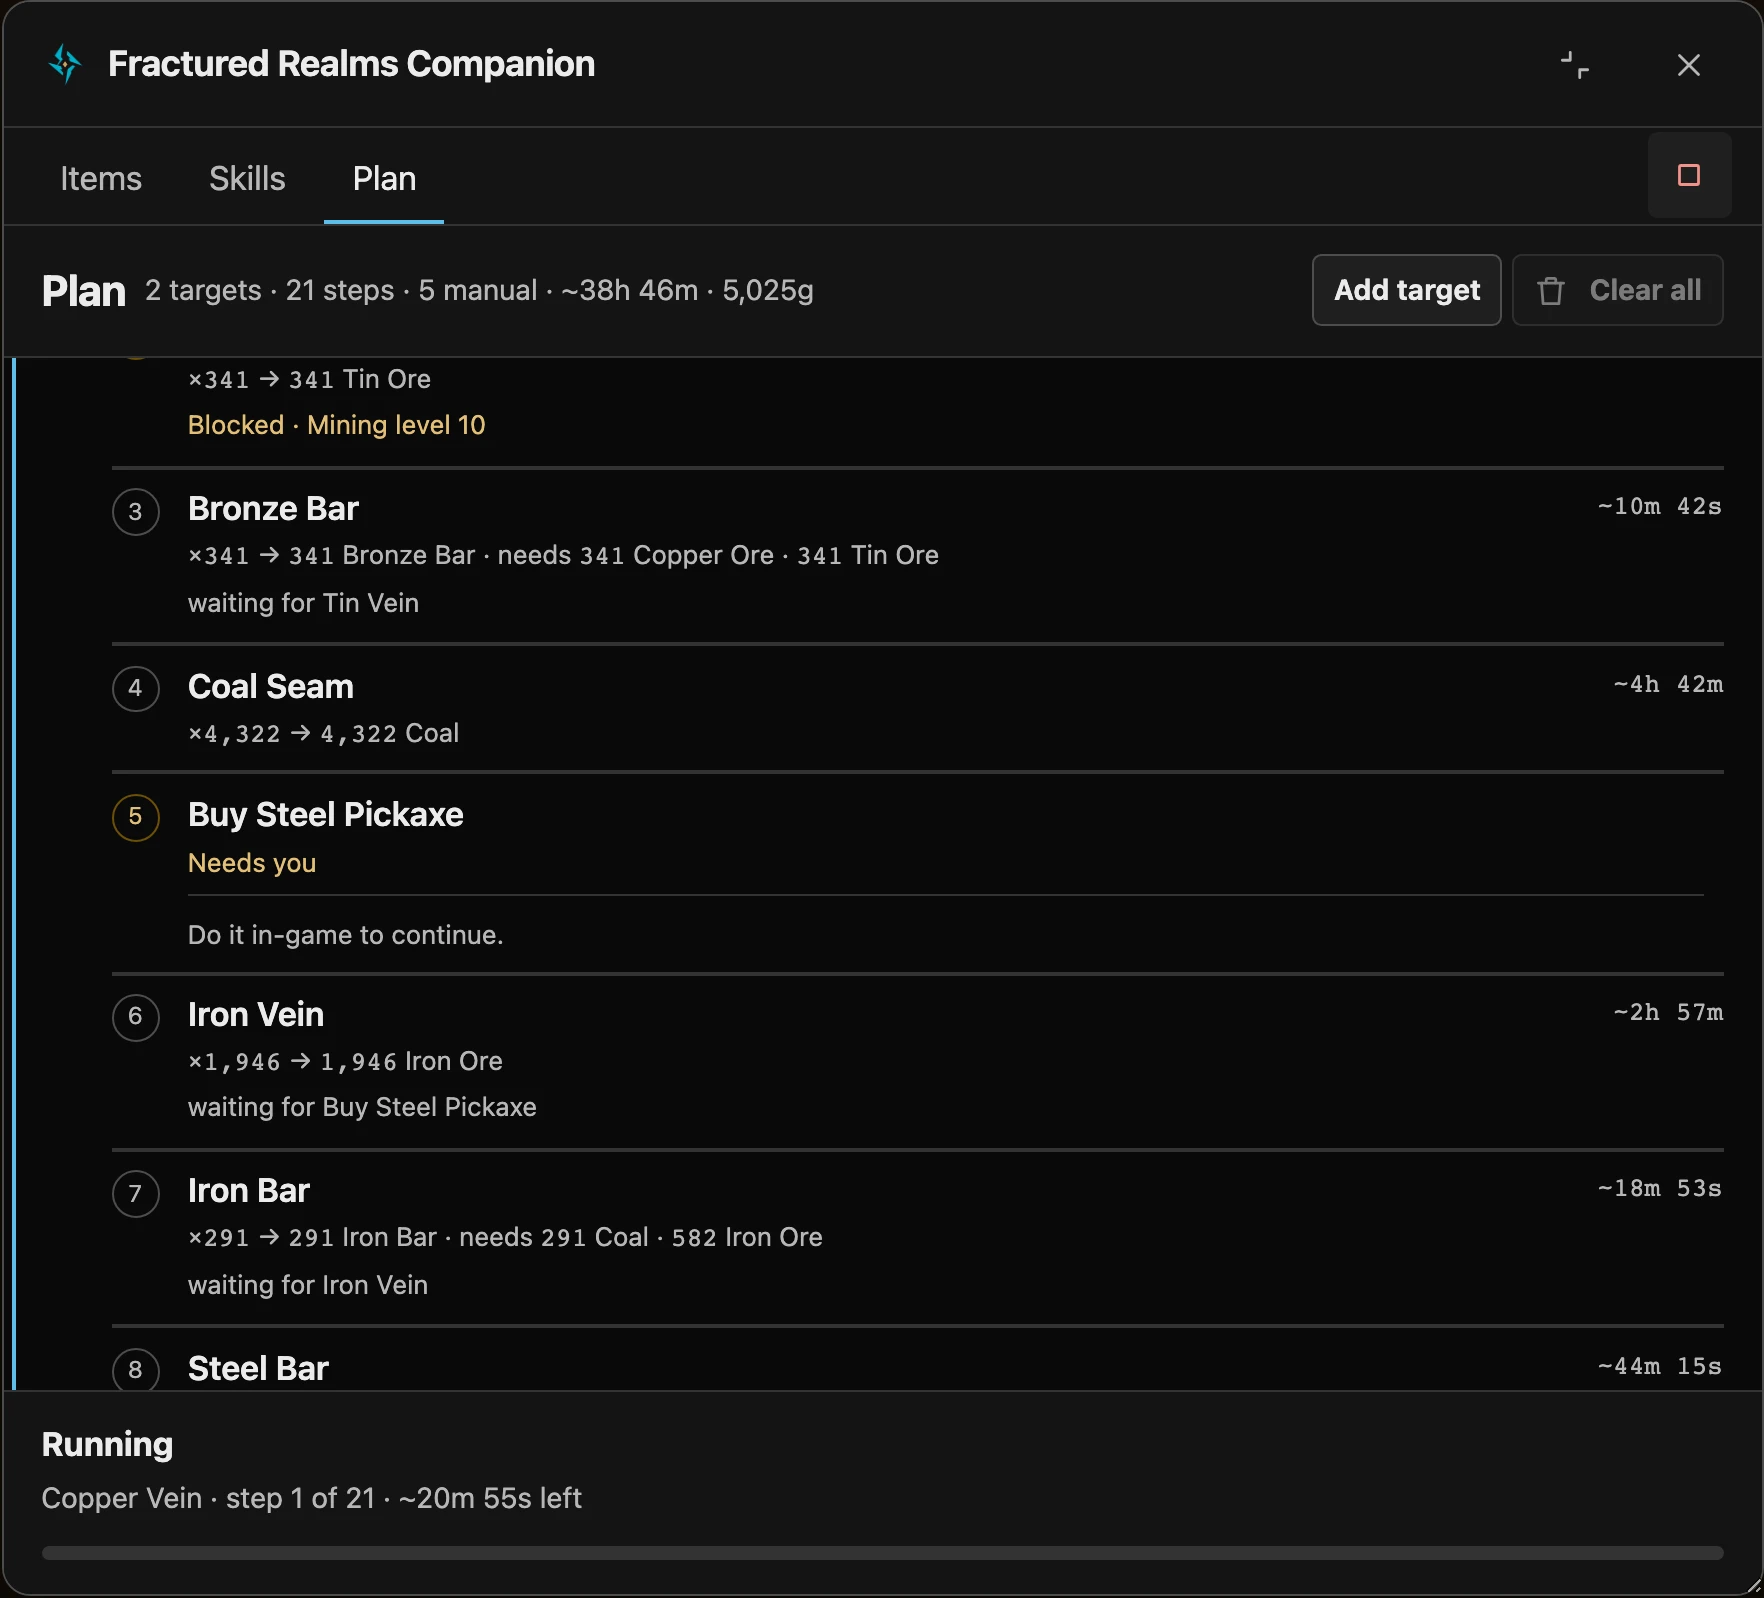
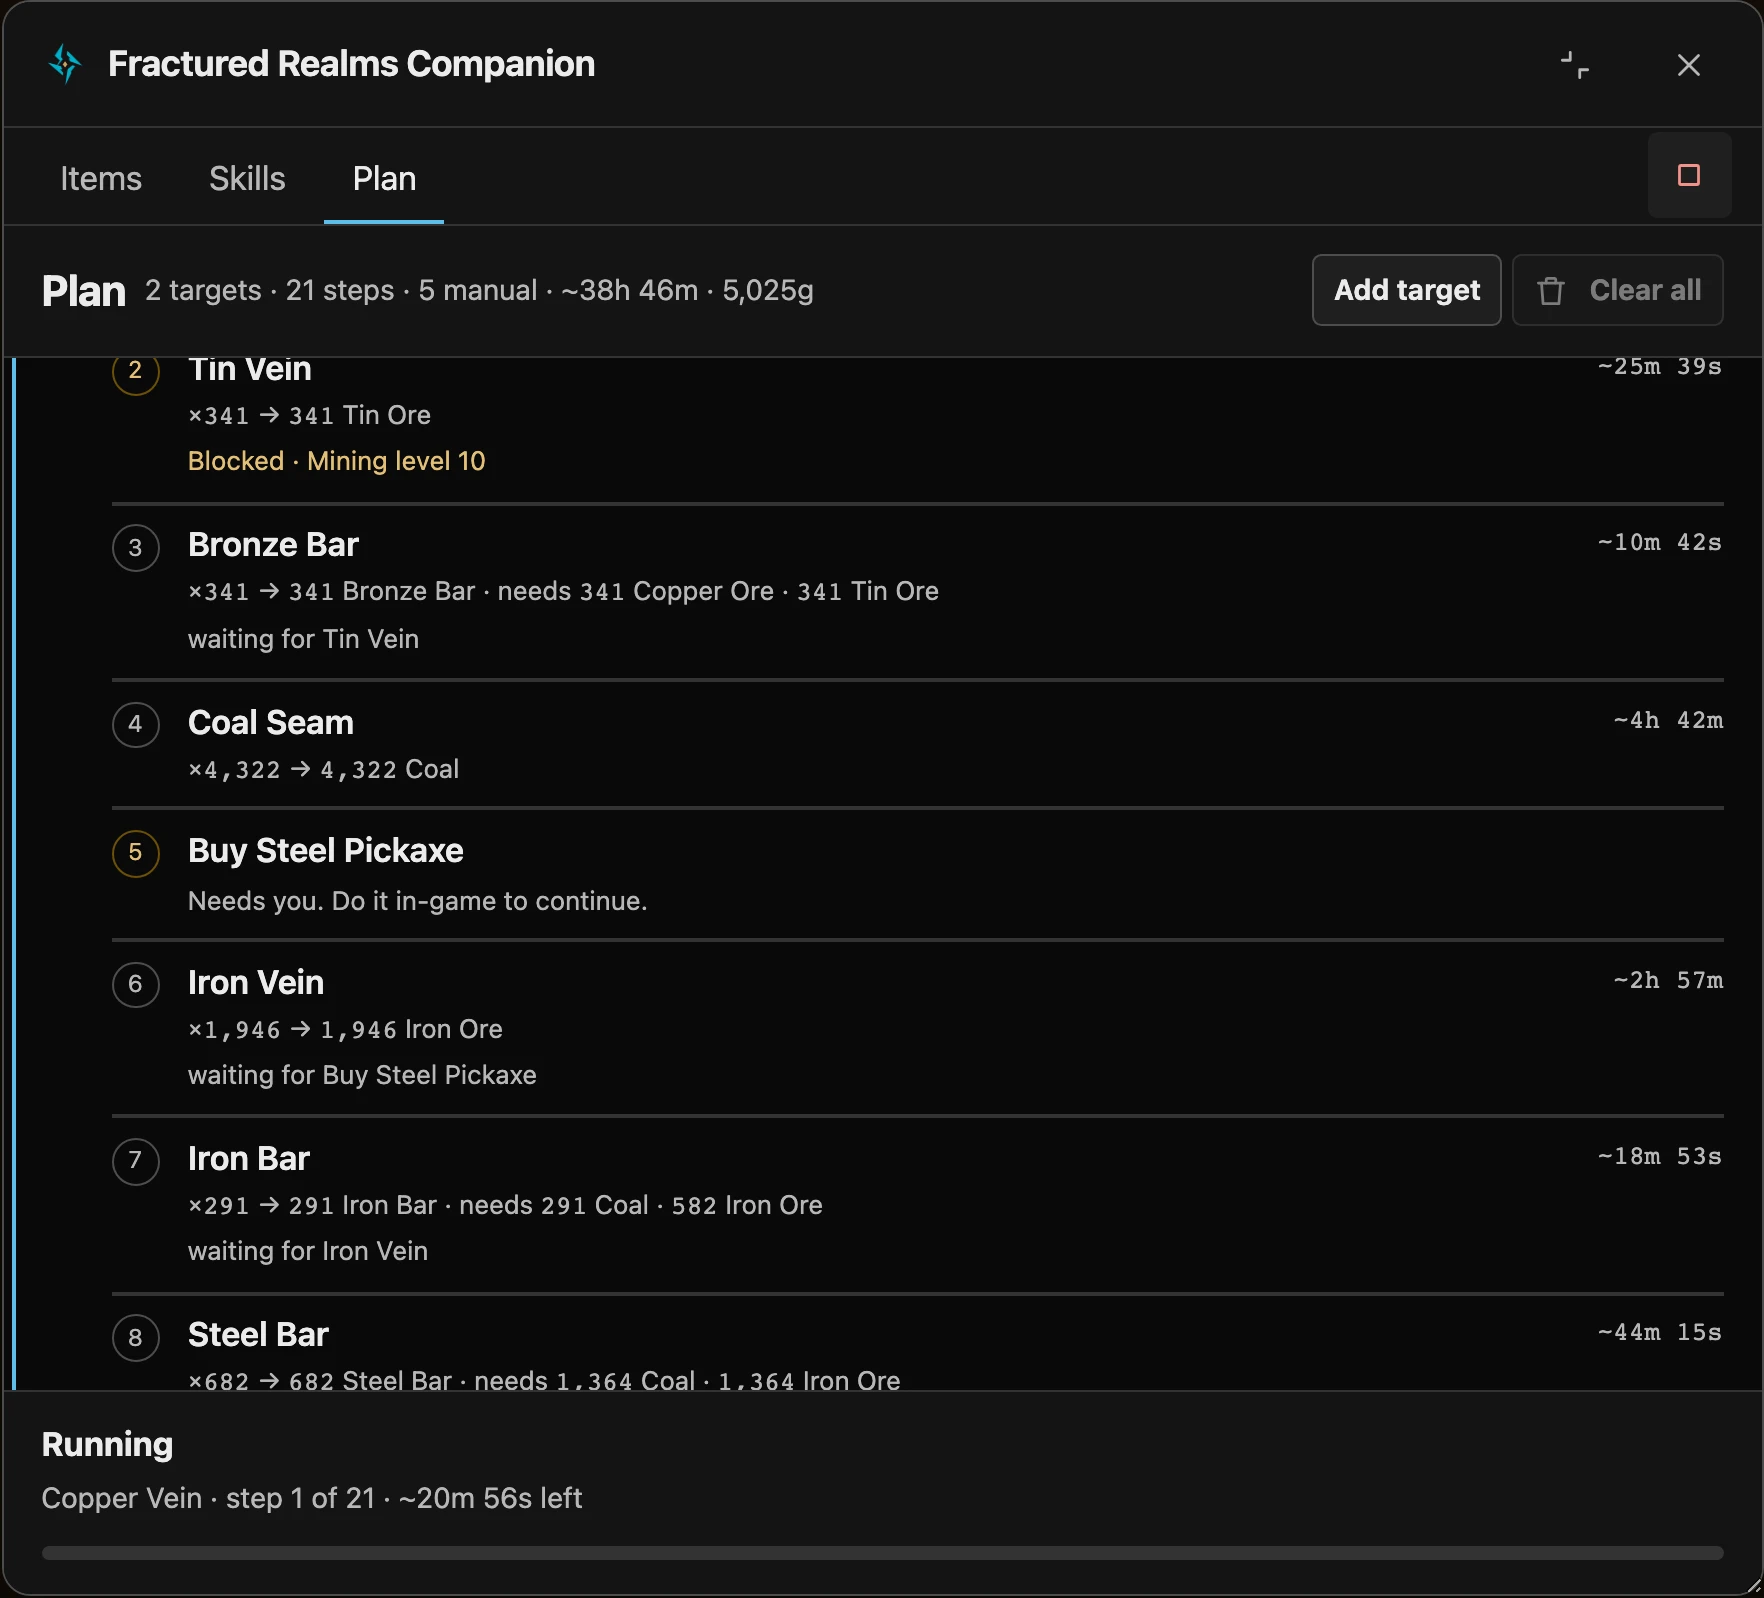
fix(overlay): refine plan tab manual steps and composer
Review of the restored plan layout surfaced several presentation
defects. Manual steps split their status and instruction across two
lines separated by a rule, which read as clutter; they now state
everything on one line. The collapsible "Manual stops" list added
interaction for no benefit and is now a plain list. Targets carried a
divider after their last step even though the next card's heading
already separates them, and completed or blocked targets repeated their
state badge as trailing meta text; both are removed so only meaningful
dividers and counts remain.

The composer also misaligned its controls: the target-type field
reserved space for its help text under the select, so bottom-aligning
the row lifted that select above the other inputs and buttons. The help
text now sits on its own line beneath the row, letting every field and
button share one control baseline.

diff --git a/overlay/overlay.js b/overlay/overlay.js
@@ -402,12 +402,12 @@ tbody tr:last-child td { border-bottom: 0; }
 .plan-form .field { flex: 1 1 9rem; }
 .plan-form .button { flex: 0 0 auto; }
 .plan-form-actions { display: flex; gap: var(--fr-s1); }
-.field-help { margin: 0; color: var(--fr-text-secondary); font-size: 0.6875rem; line-height: 1.35; }
+.field-help { flex-basis: 100%; margin: 0; color: var(--fr-text-secondary); font-size: 0.6875rem; line-height: 1.35; }
 #fr-plan-result { flex: 1 1 auto; min-width: 0; min-height: 0; overflow: auto; padding: var(--fr-space-pane); }
 #fr-plan-result .empty { color: var(--fr-text-secondary); font-size: 0.8125rem; line-height: 1.5; }
 .plan-queue-list { margin: 0; padding: 0; list-style: none; }
 .queue-plan { padding: var(--fr-s3) 0; }
-.queue-plan + .queue-plan { border-top: 1px solid var(--fr-border-subtle); }
+.queue-plan + .queue-plan { margin-top: var(--fr-s2); }
 .queue-plan[data-active="true"] { border-left: 2px solid var(--fr-state-signal); margin-left: calc(-1 * var(--fr-s3)); padding-left: var(--fr-s3); }
 .queue-plan-top { display: flex; align-items: center; gap: var(--fr-s2); min-width: 0; }
 .queue-plan-index { flex: 0 0 auto; color: var(--fr-text-secondary); font-size: 0.75rem; }
@@ -437,8 +437,7 @@ tbody tr:last-child td { border-bottom: 0; }
 .plan-step[data-state="running"] .step-state { color: var(--fr-state-signal); }
 .plan-step[data-state="blocked"] .step-state, .plan-step[data-state^="manual"] .step-state { color: var(--fr-state-warning); }
 .step-timing { flex: 0 0 auto; color: var(--fr-text-secondary); font-size: 0.6875rem; line-height: 1.35; text-align: right; white-space: nowrap; }
-.instruction-card { grid-column: 1 / -1; margin-top: var(--fr-s2); padding: var(--fr-s2) 0 0; border-top: 1px solid var(--fr-border-subtle); background: transparent; color: var(--fr-text-secondary); font-size: 0.6875rem; line-height: 1.4; }
-.instruction-card strong { display: block; color: var(--fr-text-primary); }
+.instruction-card { margin-top: 0.125rem; color: var(--fr-state-warning); font-size: 0.6875rem; line-height: 1.4; overflow-wrap: anywhere; }
 .step-progress { grid-column: 1 / -1; width: 100%; height: 0.5rem; margin-top: var(--fr-s2); overflow: hidden; border: 0; border-radius: 999px; background: var(--fr-neutral-800); accent-color: var(--fr-state-signal); }
 .step-progress-text { grid-column: 1 / -1; margin-top: 0.125rem; color: var(--fr-text-secondary); font-size: 0.6875rem; }
 .step-progress::-webkit-progress-bar, .executor-progress::-webkit-progress-bar { background: var(--fr-neutral-800); }
@@ -450,7 +449,7 @@ tbody tr:last-child td { border-bottom: 0; }
 .plan-overview dd { margin: 0; }
 .plan-overview-presence { margin: var(--fr-s3) 0 0; color: var(--fr-text-secondary); font-size: 0.75rem; line-height: 1.45; }
 .plan-manual-list { margin-top: var(--fr-s4); border-top: 1px solid var(--fr-border-subtle); }
-.plan-manual-list summary { min-height: var(--fr-control); padding: var(--fr-s2) 0; cursor: pointer; }
+.plan-manual-list h3 { margin: 0; padding: var(--fr-s2) 0; font-size: 0.8125rem; }
 .plan-manual-list ul { margin: 0; padding: 0; list-style: none; }
 .manual-list-row { display: flex; justify-content: space-between; gap: var(--fr-s2); padding: var(--fr-s2) 0; border-top: 1px solid var(--fr-border-subtle); color: var(--fr-text-secondary); font-size: 0.75rem; }
 .manual-list-row[data-state="manual-now"] { color: var(--fr-state-warning); }
@@ -1050,7 +1049,6 @@ function createApplication(shell, modelJson, api) {
     executorStatus: { phase: 'idle', message: 'Add a target to begin.', stepStatuses: {}, runningStepId: null },
     queueStartedAt: null,
     nextPlanId: 1,
-    manualListOpen: false,
     composerOpen: false,
     lastAnnouncementKey: '',
   };
@@ -1113,7 +1111,7 @@ function createApplication(shell, modelJson, api) {
   skillTable.addEventListener('click', async (event) => { const button = event.target.closest?.('[data-start-action]'); if (!button || button.disabled || isExecutionLocked(state.executorStatus?.phase)) return; const skillId = button.dataset.skillId; const action = actionFor(skillId, button.dataset.actionId); if (!action) return; const blocker = liveBlocker(model, liveState(), { kind: 'action', skillId, actionId: action.id }); if (blocker) { skillStatus.textContent = `Blocked: ${factLabel(blocker)}`; skillStatus.dataset.state = 'error'; return; } try { await api.stopAction(); await api.startAction(skillId, action.id); skillStatus.textContent = `${actionName(action)} started.`; skillStatus.dataset.state = 'idle'; } catch (error) { skillStatus.textContent = error instanceof Error ? error.message : String(error); skillStatus.dataset.state = 'error'; } });
 
   const planPanel = shell.panels.plan;
-  planPanel.innerHTML = `<div class="plan-view"><div class="plan-toolbar" id="fr-plan-toolbar"><h2>Plan</h2><span id="fr-plan-toolbar-summary" class="plan-toolbar-summary"></span><div class="plan-toolbar-actions"><button class="button compact" id="fr-plan-compose-toggle" type="button" aria-expanded="false" aria-controls="fr-plan-composer">Add target</button><button class="button compact" id="fr-clear" type="button">${ICONS.clear} Clear all</button></div></div><section id="fr-plan-composer" class="plan-composer" aria-label="Add plan target"><form class="plan-form" id="fr-plan-form"><div class="field"><label for="fr-plan-target">Target type</label><select class="control" id="fr-plan-target"><option value="item">Reach item total</option><option value="item-gain">Gain items</option><option value="level">Reach skill level</option><option value="xp">Reach skill XP</option><option value="action">Run an action</option><option value="use-stock">Use current stock</option></select><p class="field-help" id="fr-plan-kind-help"></p></div><div class="field" id="fr-plan-item-field"><label for="fr-plan-item">Desired item</label><div class="plan-combobox"><input class="control" id="fr-plan-item" type="search" role="combobox" aria-autocomplete="list" aria-haspopup="listbox" aria-controls="fr-plan-options" aria-expanded="false" autocomplete="off" placeholder="Search item names"><div class="combobox-popover" id="fr-plan-options" role="listbox" hidden></div></div></div><div class="field" id="fr-plan-skill-field" hidden><label for="fr-plan-skill">Skill</label><select class="control" id="fr-plan-skill"></select></div><div class="field" id="fr-plan-action-field" hidden><label for="fr-plan-action">Action</label><select class="control" id="fr-plan-action"></select></div><div class="field" id="fr-plan-qty-field"><label for="fr-plan-qty" id="fr-plan-qty-label">Total quantity</label><input class="control data" id="fr-plan-qty" type="number" min="1" step="1" value="1" inputmode="numeric"></div><div class="field" id="fr-plan-mode-field" hidden><label for="fr-plan-action-mode">Measure by</label><select class="control" id="fr-plan-action-mode"><option value="runs">Runs</option><option value="minutes">Minutes</option></select></div><div class="plan-form-actions"><button class="button primary" id="fr-resolve-plan" type="submit">Add target</button><button class="button compact" id="fr-plan-compose-cancel" type="button">Cancel</button></div></form><p class="form-error" id="fr-plan-form-error" role="status" hidden></p></section><div id="fr-plan-result" class="plan-queue" aria-label="Plan targets and steps"></div><div class="executor" aria-label="Plan execution"><div class="executor-status"><strong id="fr-executor-phase">Ready to run</strong><p id="fr-executor-message">Add a target to begin.</p><progress class="executor-progress" id="fr-executor-progress" max="1" value="0" aria-label="Plan progress"></progress></div></div><div id="fr-plan-announcer" class="visually-hidden" role="status" aria-live="polite" aria-atomic="true"></div></div>`;
+  planPanel.innerHTML = `<div class="plan-view"><div class="plan-toolbar" id="fr-plan-toolbar"><h2>Plan</h2><span id="fr-plan-toolbar-summary" class="plan-toolbar-summary"></span><div class="plan-toolbar-actions"><button class="button compact" id="fr-plan-compose-toggle" type="button" aria-expanded="false" aria-controls="fr-plan-composer">Add target</button><button class="button compact" id="fr-clear" type="button">${ICONS.clear} Clear all</button></div></div><section id="fr-plan-composer" class="plan-composer" aria-label="Add plan target"><form class="plan-form" id="fr-plan-form"><div class="field"><label for="fr-plan-target">Target type</label><select class="control" id="fr-plan-target"><option value="item">Reach item total</option><option value="item-gain">Gain items</option><option value="level">Reach skill level</option><option value="xp">Reach skill XP</option><option value="action">Run an action</option><option value="use-stock">Use current stock</option></select></div><div class="field" id="fr-plan-item-field"><label for="fr-plan-item">Desired item</label><div class="plan-combobox"><input class="control" id="fr-plan-item" type="search" role="combobox" aria-autocomplete="list" aria-haspopup="listbox" aria-controls="fr-plan-options" aria-expanded="false" autocomplete="off" placeholder="Search item names"><div class="combobox-popover" id="fr-plan-options" role="listbox" hidden></div></div></div><div class="field" id="fr-plan-skill-field" hidden><label for="fr-plan-skill">Skill</label><select class="control" id="fr-plan-skill"></select></div><div class="field" id="fr-plan-action-field" hidden><label for="fr-plan-action">Action</label><select class="control" id="fr-plan-action"></select></div><div class="field" id="fr-plan-qty-field"><label for="fr-plan-qty" id="fr-plan-qty-label">Total quantity</label><input class="control data" id="fr-plan-qty" type="number" min="1" step="1" value="1" inputmode="numeric"></div><div class="field" id="fr-plan-mode-field" hidden><label for="fr-plan-action-mode">Measure by</label><select class="control" id="fr-plan-action-mode"><option value="runs">Runs</option><option value="minutes">Minutes</option></select></div><div class="plan-form-actions"><button class="button primary" id="fr-resolve-plan" type="submit">Add target</button><button class="button compact" id="fr-plan-compose-cancel" type="button">Cancel</button></div><p class="field-help" id="fr-plan-kind-help"></p></form><p class="form-error" id="fr-plan-form-error" role="status" hidden></p></section><div id="fr-plan-result" class="plan-queue" aria-label="Plan targets and steps"></div><div class="executor" aria-label="Plan execution"><div class="executor-status"><strong id="fr-executor-phase">Ready to run</strong><p id="fr-executor-message">Add a target to begin.</p><progress class="executor-progress" id="fr-executor-progress" max="1" value="0" aria-label="Plan progress"></progress></div></div><div id="fr-plan-announcer" class="visually-hidden" role="status" aria-live="polite" aria-atomic="true"></div></div>`;
   const planForm = planPanel.querySelector('#fr-plan-form'); const planFormError = planPanel.querySelector('#fr-plan-form-error'); const planKind = planPanel.querySelector('#fr-plan-target'); const planItem = planPanel.querySelector('#fr-plan-item'); const planOptions = planPanel.querySelector('#fr-plan-options'); const planSkill = planPanel.querySelector('#fr-plan-skill'); const planAction = planPanel.querySelector('#fr-plan-action'); const planQty = planPanel.querySelector('#fr-plan-qty'); const planQtyLabel = planPanel.querySelector('#fr-plan-qty-label'); const planMode = planPanel.querySelector('#fr-plan-action-mode'); const composer = planPanel.querySelector('#fr-plan-composer'); const composeToggle = planPanel.querySelector('#fr-plan-compose-toggle'); const composeCancel = planPanel.querySelector('#fr-plan-compose-cancel'); const kindHelp = planPanel.querySelector('#fr-plan-kind-help'); const clearButton = planPanel.querySelector('#fr-clear'); const announcer = planPanel.querySelector('#fr-plan-announcer');
   const kindCopy = { item: ['Reach item total', 'Reach an inventory total.', 'Total quantity'], 'item-gain': ['Gain items', 'Gain this many from your current inventory.', 'Quantity to gain'], level: ['Reach skill level', 'Reach a total skill level.', 'Target level'], xp: ['Reach skill XP', 'Reach a total skill XP value.', 'Target XP'], action: ['Run an action', 'Run one action for a count or duration.', 'Amount'], 'use-stock': ['Use current stock', 'Craft as much as your current inputs allow.', 'Amount'] };
   const announcePlan = (message) => { if (announcer && announcer.textContent !== message) announcer.textContent = message; };
@@ -1256,11 +1254,13 @@ function createApplication(shell, modelJson, api) {
         let stateText = presentation.label;
         if (presentation.state === 'later') { const laterDeps = (step.deps || []).map((id) => result.steps.find((s) => s.id === id)).filter((d) => d && status.stepStatuses?.[d.id] !== 'done'); const binding = laterDeps.reduce((a, b) => (planNum(result.perStep?.find((e) => e.id === b.id)?.endMs) > planNum(result.perStep?.find((e) => e.id === a.id)?.endMs) ? b : a), laterDeps[0]); stateText = binding ? `waiting for ${binding.label || binding.id}` : 'waiting for earlier work'; }
         const timeText = presentation.state === 'running' && Number(status.stepRemainingMs) > 0 ? `~${formatDuration(status.stepRemainingMs)} left` : presentation.state === 'manual-later' ? `~${formatFinishTime(result.readyAt?.[step.id] || 0, anchor)}` : perMs > 0 ? `~${formatDuration(perMs)}` : '';
-        const showState = ['running', 'blocked', 'manual-now', 'manual-later', 'later'].includes(presentation.state);
+        const isManual = step.kind === 'manual';
+        const showState = !isManual && ['running', 'blocked', 'later'].includes(presentation.state);
         const marker = presentation.state === 'done' ? ICONS.check : String(stepNumber);
         const progressState = stepProgress(step, status); const pct = progressState ? Math.round((progressState.value / progressState.max) * 100) : 0;
         const progressMarkup = progressState ? `<progress class="step-progress" max="${escapeHtml(progressState.max)}" value="${escapeHtml(progressState.value)}" aria-label="${escapeHtml(step.label || step.id)}: ${escapeHtml(progressState.value)} of ${escapeHtml(progressState.max)} runs"></progress><span class="step-progress-text data">${escapeHtml(planQtyText(progressState.value))} / ${escapeHtml(planQtyText(progressState.max))} · ${pct}%</span>` : '';
-        const instruction = step.kind === 'manual' && presentation.state !== 'done' ? '<p class="instruction-card">Do it in-game to continue.</p>' : '';
+        const manualText = presentation.state === 'manual-later' ? 'Needs you later.' : 'Needs you. Do it in-game to continue.';
+        const instruction = isManual && presentation.state !== 'done' ? `<p class="instruction-card">${manualText}</p>` : '';
         const detailHtml = [stepYieldHtml(step), stepInputsHtml(step)].filter(Boolean).join(' · ');
         return `<li class="plan-step" data-step-id="${escapeHtml(step.id)}" data-state="${presentation.state}"><span class="step-marker">${marker}</span><div class="step-content"><strong>${escapeHtml(step.label || actionName(actionFor(step.skillId, step.actionId)) || step.id)}</strong>${detailHtml ? `<span class="step-detail">${detailHtml}</span>` : ''}${showState ? `<span class="step-state" data-state="${presentation.state}">${escapeHtml(stateText)}</span>` : ''}${instruction}${progressMarkup}</div>${timeText ? `<span class="step-timing data">${escapeHtml(timeText)}</span>` : ''}</li>`;
       };
@@ -1274,19 +1274,19 @@ function createApplication(shell, modelJson, api) {
         const proximity = entry?.ok ? goalProximityHtml(goal.target, live) : ''; const proximityRow = proximity ? `<p class="queue-plan-proximity">${proximity}</p>` : '';
         const steps = entry?.steps || []; const cardActive = steps.some((s) => s.id === runningId);
         const cardMs = steps.reduce((sum, s) => { const p = result.perStep?.find((e) => e.id === s.id); return sum + (p ? Math.max(0, Number(p.endMs) - Number(p.startMs)) : 0); }, 0);
-        const cardMeta = steps.length ? `${steps.length} ${steps.length === 1 ? 'step' : 'steps'}${cardMs > 0 ? ` · ~${formatDuration(cardMs)}` : ''}` : (blocked ? 'blocked' : done ? 'done' : waiting ? 'waiting' : '');
+        const cardMeta = steps.length ? `${steps.length} ${steps.length === 1 ? 'step' : 'steps'}${cardMs > 0 ? ` · ~${formatDuration(cardMs)}` : ''}` : '';
         const lockHint = isExecutionLocked(status.phase) ? ' aria-describedby="fr-plan-edit-lock-hint" disabled' : '';
         const controls = `<span class="queue-plan-actions"><button class="icon-button" type="button" data-queue-move="top" data-queue-goal="${escapeHtml(goal.id)}"${index === 0 ? ' disabled' : ''}${lockHint} aria-label="Move ${escapeHtml(label)} to top" title="Move to top">${ICONS.top}</button><button class="icon-button" type="button" data-queue-move="up" data-queue-goal="${escapeHtml(goal.id)}"${index === 0 ? ' disabled' : ''}${lockHint} aria-label="Move ${escapeHtml(label)} up" title="Move up">${ICONS.up}</button><button class="icon-button" type="button" data-queue-move="down" data-queue-goal="${escapeHtml(goal.id)}"${index === state.queueGoals.length - 1 ? ' disabled' : ''}${lockHint} aria-label="Move ${escapeHtml(label)} down" title="Move down">${ICONS.down}</button><button class="icon-button danger" type="button" data-queue-remove="${escapeHtml(goal.id)}"${lockHint} aria-label="Remove ${escapeHtml(label)}" title="Remove">${ICONS.remove}</button></span>`;
         const stepRows = steps.map((step, i) => renderStepRow(step, i + 1)).join(''); const stepsList = stepRows ? `<ol class="queue-steps">${stepRows}</ol>` : '';
         return `<li class="queue-plan" data-target-id="${escapeHtml(goal.id)}" data-state="${stateName}"${cardActive ? ' data-active="true"' : ''}><div class="queue-plan-top"><span class="queue-plan-index data">${String(index + 1).padStart(2, '0')}</span><h3 class="queue-plan-title">${escapeHtml(label)}</h3><span class="badge" data-state="${stateName}">${stateLabel}</span>${cardMeta ? `<span class="queue-plan-meta">${escapeHtml(cardMeta)}</span>` : ''}${controls}</div>${proximityRow}${explanation}${stepsList}</li>`;
       }).join('');
-      const manualSteps = result.steps.filter((step) => step.kind === 'manual'); const pendingManual = manualSteps.filter((step) => status.stepStatuses?.[step.id] !== 'done').sort((a, b) => planNum(result.readyAt?.[a.id]) - planNum(result.readyAt?.[b.id])); const manualNow = manualSteps.some((step) => stepPresentation(step, result.steps, live, status).state === 'manual-now'); const goldCost = result.steps.reduce((sum, step) => sum + planNum(model._index.providersById?.get(step.providerId)?.consumesGold), 0); const nextManual = pendingManual[0];
+      const manualSteps = result.steps.filter((step) => step.kind === 'manual'); const pendingManual = manualSteps.filter((step) => status.stepStatuses?.[step.id] !== 'done').sort((a, b) => planNum(result.readyAt?.[a.id]) - planNum(result.readyAt?.[b.id])); const goldCost = result.steps.reduce((sum, step) => sum + planNum(model._index.providersById?.get(step.providerId)?.consumesGold), 0); const nextManual = pendingManual[0];
       const overview = `<dl class="plan-overview" id="fr-queue-total"><div><dt>Estimate</dt><dd class="data">≈${escapeHtml(formatDuration(result.optimisticMs || 0))}</dd></div>${goldCost > 0 ? `<div><dt>Cost</dt><dd class="data">${escapeHtml(planQtyText(goldCost))}g</dd></div>` : ''}<div><dt>Manual stops</dt><dd class="data">${pendingManual.length}</dd></div></dl>`;
       const presence = nextManual ? `<p class="plan-overview-presence">Runs ~${escapeHtml(formatDuration(result.schedulerMs || 0))} before it needs you.<br>Next: ${escapeHtml(nextManual.label || nextManual.id)} at ~${escapeHtml(formatFinishTime(result.readyAt?.[nextManual.id] || 0, anchor))}.</p>` : '<p class="plan-overview-presence">Runs fully unattended.</p>';
       const manualRows = manualSteps.map((step) => { const presentation = stepPresentation(step, result.steps, live, status); const ready = result.readyAt?.[step.id] || 0; return `<li class="manual-list-row" data-state="${presentation.state}"><span>${escapeHtml(step.label || step.id)}</span><span class="data">${presentation.state === 'manual-now' ? 'ready' : presentation.state === 'done' ? 'done' : `~${escapeHtml(formatFinishTime(ready, anchor))}`}</span></li>`; }).join('');
       const warning = result.infeasibility ? `<p class="banner warning" role="status">${ICONS.warning}<span>Simulation warning: ${escapeHtml(result.steps.find((step) => step.id === result.infeasibility.stepId)?.label || 'step')}.</span></p>` : '';
       const lockNote = isExecutionLocked(status.phase) ? '<p class="plan-edit-lock" role="note">Stop the plan to edit targets.</p>' : '';
-      planResult.innerHTML = state.queueGoals.length ? `${lockNote}${warning}<ol class="plan-queue-list">${targetCards}</ol>${overview}${presence}${manualSteps.length ? `<details class="plan-manual-list"${manualNow || state.manualListOpen ? ' open' : ''}><summary>Manual stops (${pendingManual.length})</summary><ul>${manualRows}</ul></details>` : ''}<p id="fr-plan-edit-lock-hint" class="visually-hidden">Stop the plan to edit targets.</p>` : '<div class="empty">What do you want to achieve?<br>Add an item, skill, or action target. The companion will show every prerequisite before anything runs.</div>';
+      planResult.innerHTML = state.queueGoals.length ? `${lockNote}${warning}<ol class="plan-queue-list">${targetCards}</ol>${overview}${presence}${manualSteps.length ? `<section class="plan-manual-list"><h3>Manual stops (${pendingManual.length})</h3><ul>${manualRows}</ul></section>` : ''}<p id="fr-plan-edit-lock-hint" class="visually-hidden">Stop the plan to edit targets.</p>` : '<div class="empty">What do you want to achieve?<br>Add an item, skill, or action target. The companion will show every prerequisite before anything runs.</div>';
       const summary = planPanel.querySelector('#fr-plan-toolbar-summary'); if (summary) { const stepsN = result.steps.length; summary.textContent = stepsN ? `${state.queueGoals.length} ${state.queueGoals.length === 1 ? 'target' : 'targets'} · ${stepsN} ${stepsN === 1 ? 'step' : 'steps'} · ${pendingManual.length} manual · ~${formatDuration(result.optimisticMs || 0)}${goldCost > 0 ? ` · ${planQtyText(goldCost)}g` : ''}` : ''; summary.hidden = !stepsN; }
       if (state.queueGoals.length === 0) setComposerOpen(true, { focus: false }); else if (!state.composerOpen) setComposerOpen(false, { focus: false });
       renderExecutor();